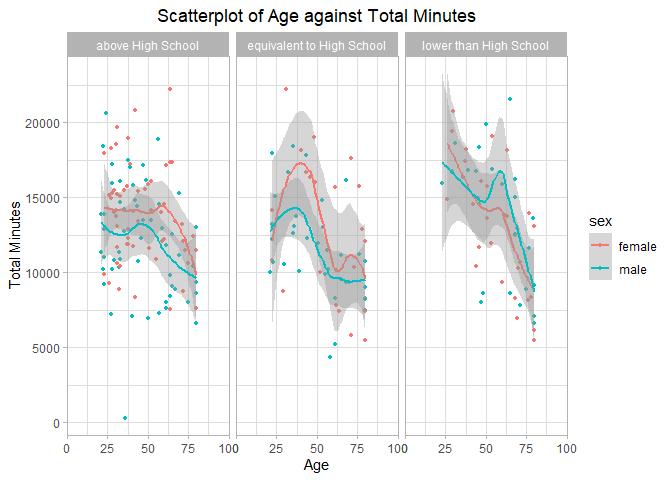
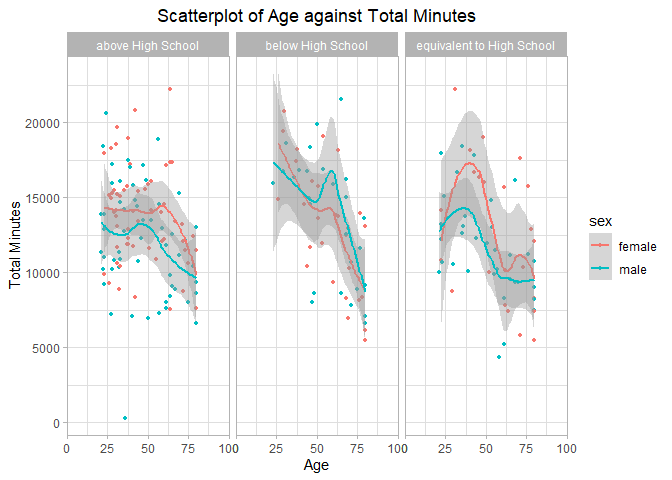
save

diff --git a/HW3.md b/HW3.md
@@ -64,7 +64,7 @@ P8105_EZ2384_HW3
   demographics =  read.csv("../../Datasets/participant_demographics.csv", skip=4) %>% janitor::clean_names() %>% filter(age>=21) %>%
                   mutate(across(seqn:education, as.character)) %>%  
                   mutate(sex=recode(sex, "1"="male", "2"="female"), 
-                         education=recode(education, "1"="lower than High School", "2"="equivalent to High School", "3"="above High School")) %>% rename(id=seqn) %>% drop_na()
+                         education=recode(education, "1"="below High School", "2"="equivalent to High School", "3"="above High School")) %>% rename(id=seqn) %>% drop_na()
 
   accelerometers= read.csv("../../Datasets/accelerometers.csv") %>% janitor::clean_names() %>% rename(id=seqn) %>% mutate(id=as.character(id))
   
@@ -81,10 +81,10 @@ P8105_EZ2384_HW3
     ##   <chr>                     <chr>  <int>
     ## 1 above High School         female    59
     ## 2 above High School         male      56
-    ## 3 equivalent to High School female    23
-    ## 4 equivalent to High School male      35
-    ## 5 lower than High School    female    28
-    ## 6 lower than High School    male      27
+    ## 3 below High School         female    28
+    ## 4 below High School         male      27
+    ## 5 equivalent to High School female    23
+    ## 6 equivalent to High School male      35
 
 ``` r
 # Plot
@@ -115,7 +115,15 @@ P8105_EZ2384_HW3
 ![](HW3_files/figure-gfm/unnamed-chunk-1-2.png)<!-- -->
 
 ``` r
-# Plot 24H Minutes against Age
+# Plot of 24H-Minutes against Median of Acceleratorometers_Readings
+  temp_longer = merged %>% pivot_longer(., cols = starts_with("min"), names_to = "minutes", values_to = "readings") %>%
+                mutate(minutes = as.numeric(gsub("min","",minutes))) %>% arrange(minutes, education)
+
+  median_min  = temp_longer %>% group_by(minutes) %>% summarise(median_min = median(readings, na.rm=TRUE)) %>%
+                mutate(median_min=round(median_min, digits=4)) %>% arrange(minutes)
+  
+  scatterplot_minutes = ggplot(median_min, mapping=aes(x=minutes, y=median_min)) + geom_point(na.rm=TRUE, size=1) + theme_light() +
+                        scale_x_continuous(breaks=seq(0,1400, by=200)) + scale_y_continuous(breaks=seq(0,15,by=2))
 ```
 
 - Remark on the barplot showing the distribution of sex by education
@@ -134,7 +142,13 @@ P8105_EZ2384_HW3
     a peak around middle ages. For those with education level lower than
     high school, the total minutes for subjects drops for all age
     intervals as age increases.
-- Remark on the scatterplot of 24H Minutes against Age
+- Remark on the scatterplot of 24H Minutes against Median_Minutes
+  - We can see that the median minutes tend to fluctuate greatly during
+    a course of a day, but reaches the lowest point at around 200-300
+    minutes (about 3am to 5 am) and arrived at the peak at about 600-850
+    minutes(about 10am to 2pm).
+  - The curve increases drastically over the course of 5am to 10am; and
+    decreases drastically over the course of 2pm and after.
 
 ### Problem 3
 
